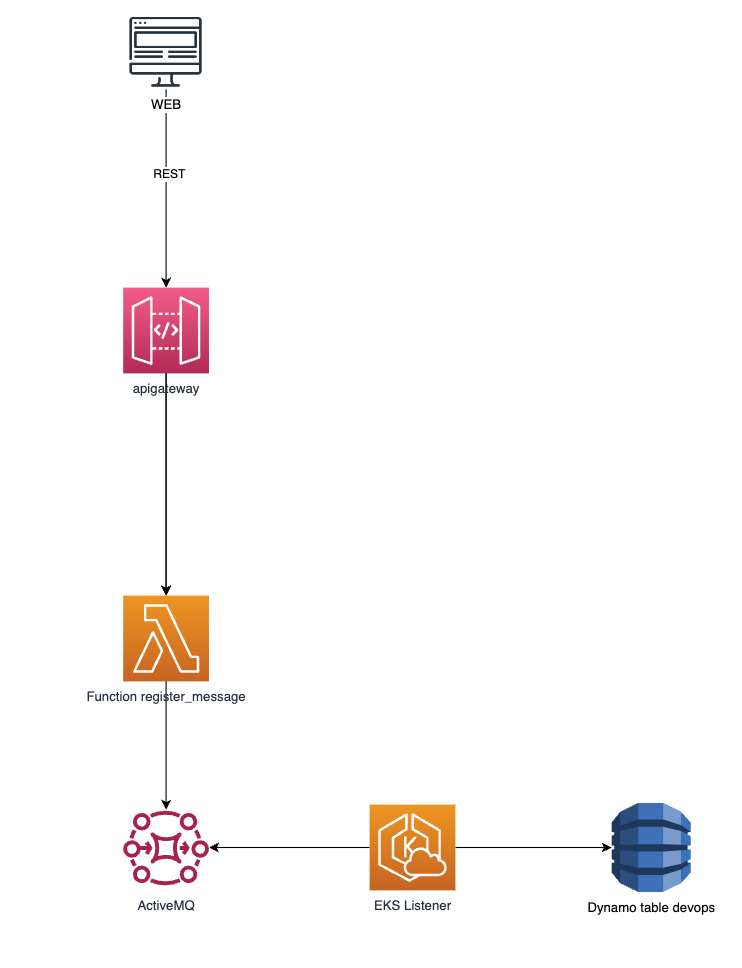
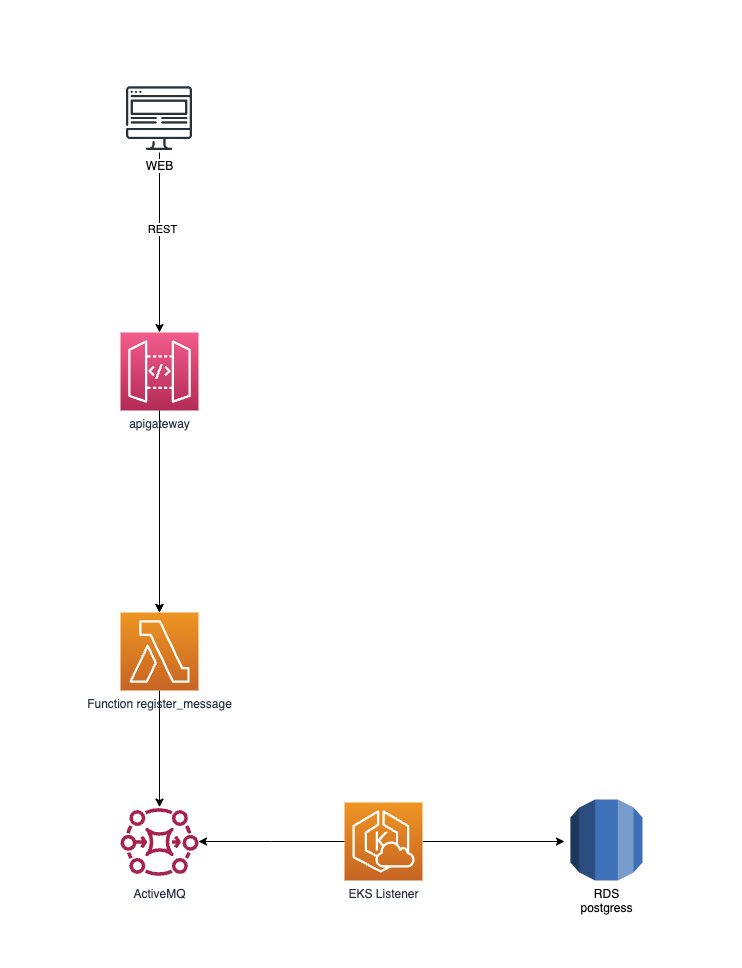
add readme

diff --git a/README.md b/README.md
@@ -9,6 +9,21 @@ Las intrucciones y la solucion estan dentro del directorio  proyecto-migracion:
 - https://github.com/kerodriguezm/DevopsTestDafiti/tree/master/dev/proyecto-migracion
 
 ## Punto 3:
+
 ***Diagrama:***
+
 ![alt text](https://github.com/kerodriguezm/DevopsTestDafiti/blob/dev/diagrams/Diagrama.png)
 
+Los servicios que se proponen son los siguientes:
+
+***API REST:*** Para una comunicacion sincrona, en esta api se creara el recurso con los methodos necesarios para poder procesarlos en la lambda.
+
+***Function Lambda:*** Debido a que el proyecto solo se usara cada vez que se realice una peticion lo mejor seria usar una lambda para que procese las solicitudes a las colas del ActiveMQ, 
+no seria presindible un servicio para este tipo de procesos de acuerdo a lo requerido.
+
+***ActiveMQ:*** El servicio de agentes de mensageria, configurar las colas atravez de un xml.
+
+***EKS(Elastic Kubernetes Service):*** Un servicio de kubernetes para que realice el proceso de cargar a la base de datos.
+
+***RDS (Relational Database Service):*** Para operar y escalar una base de datos Postgres, generando instancias de lectura y escritura,
+en caso de realizar lecturas muy extensas dicha instancia no interrumpira el flujo de insercion.
